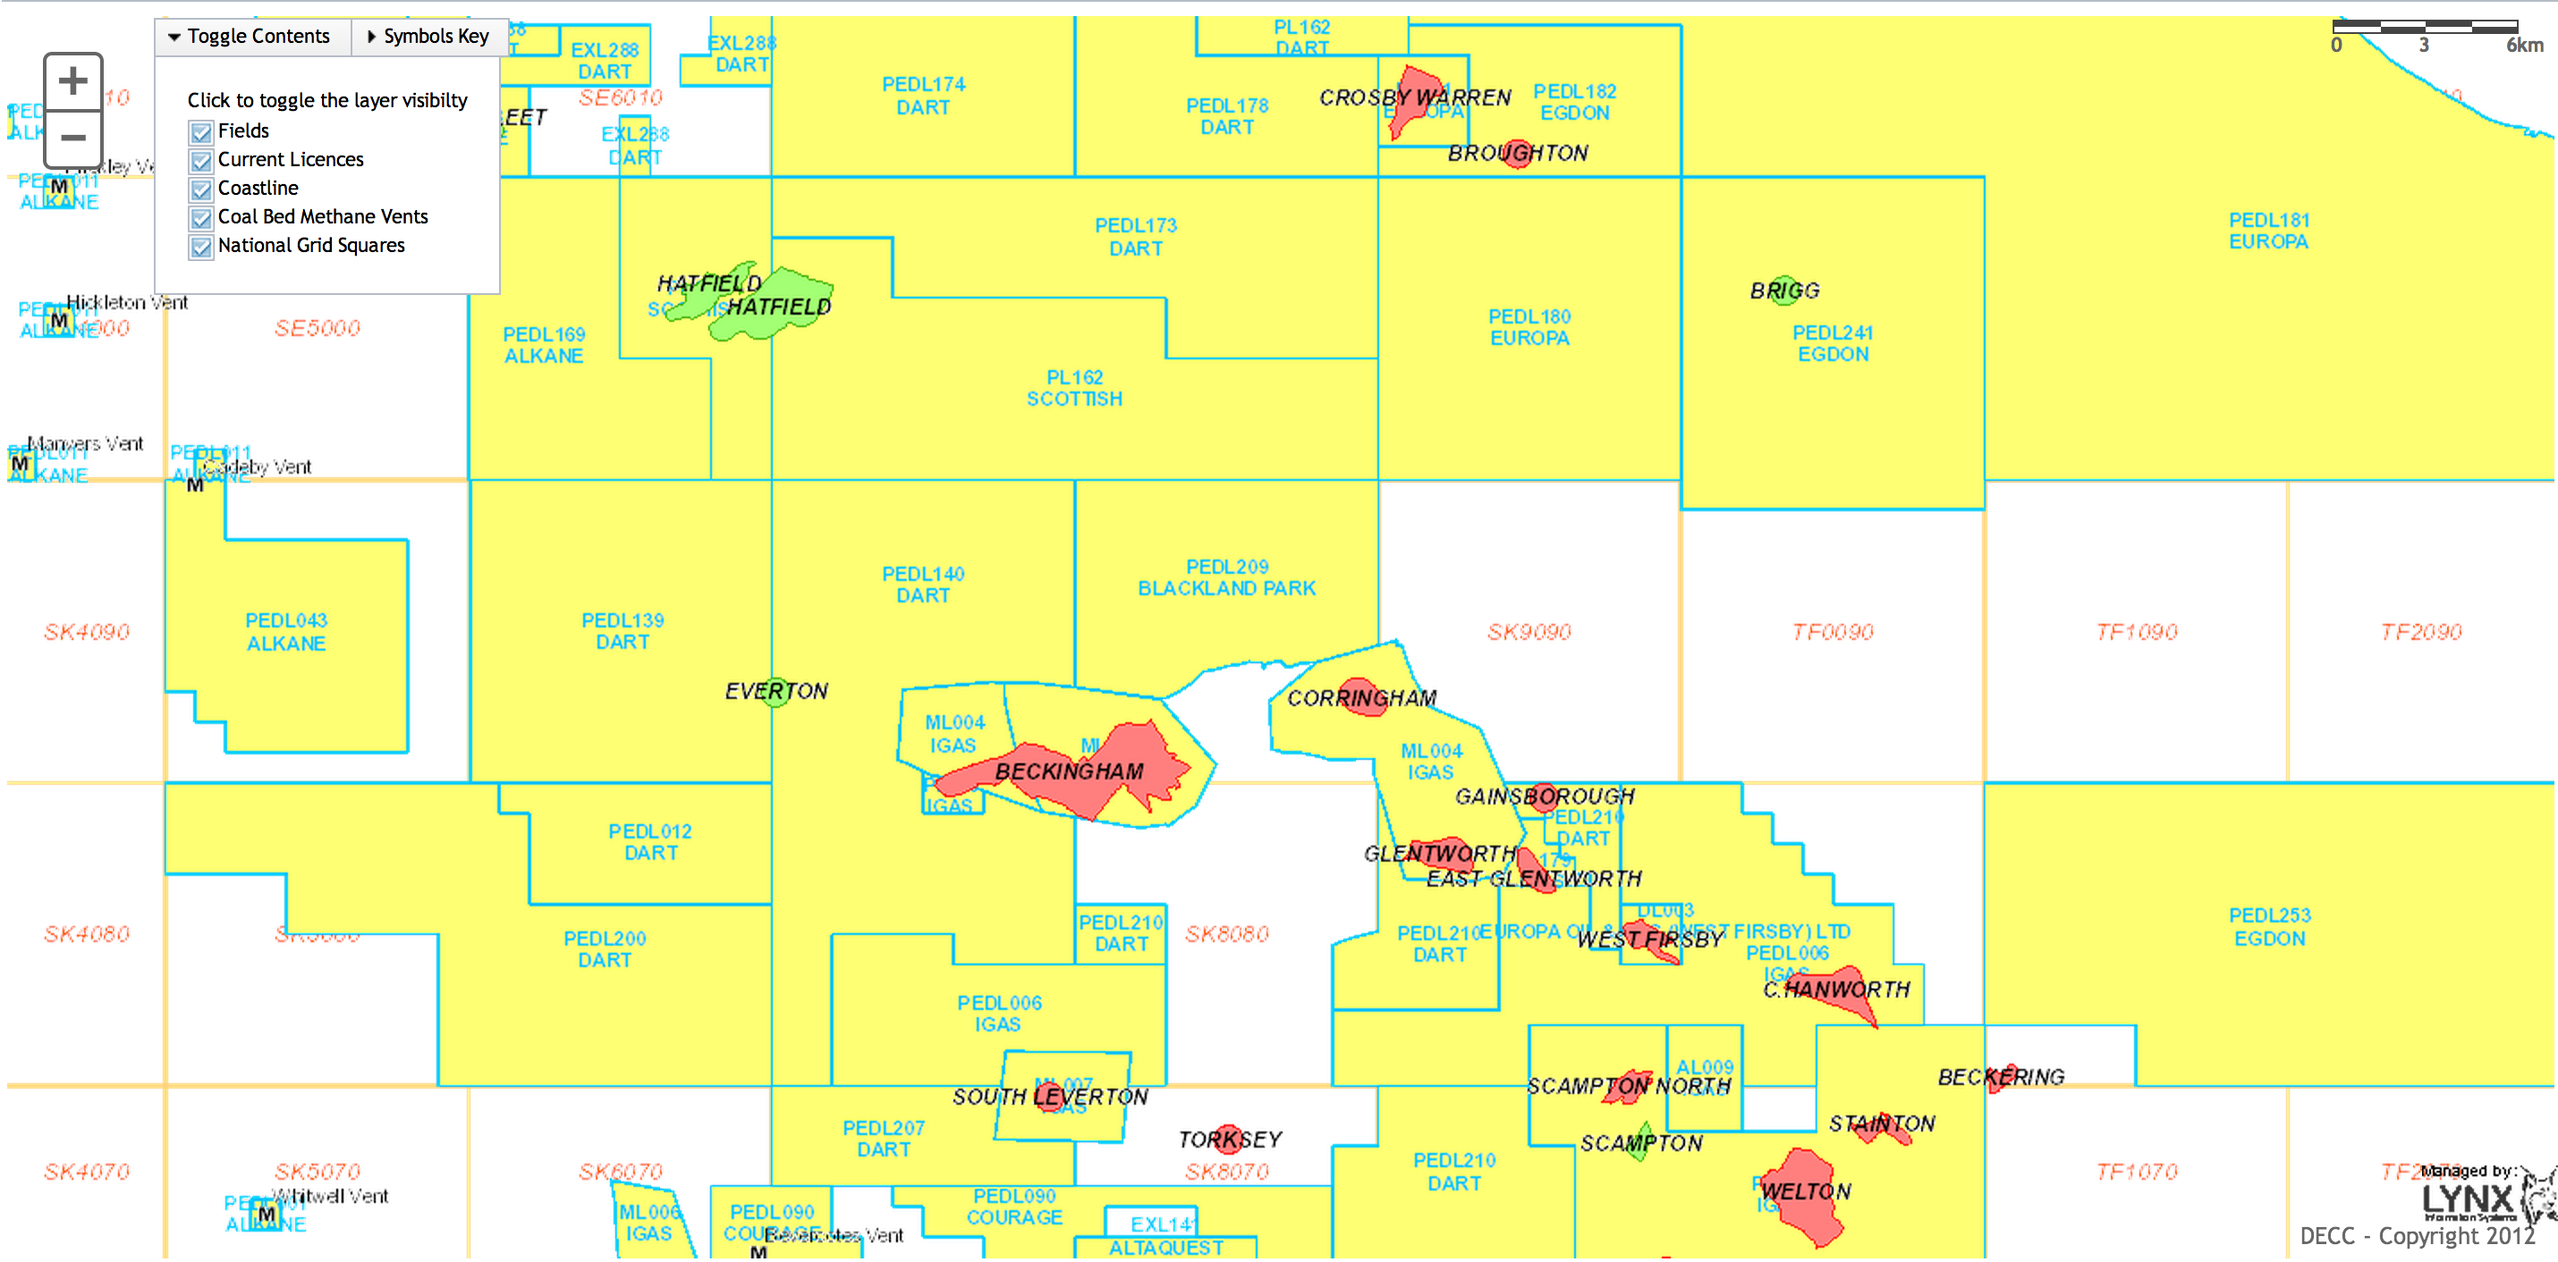
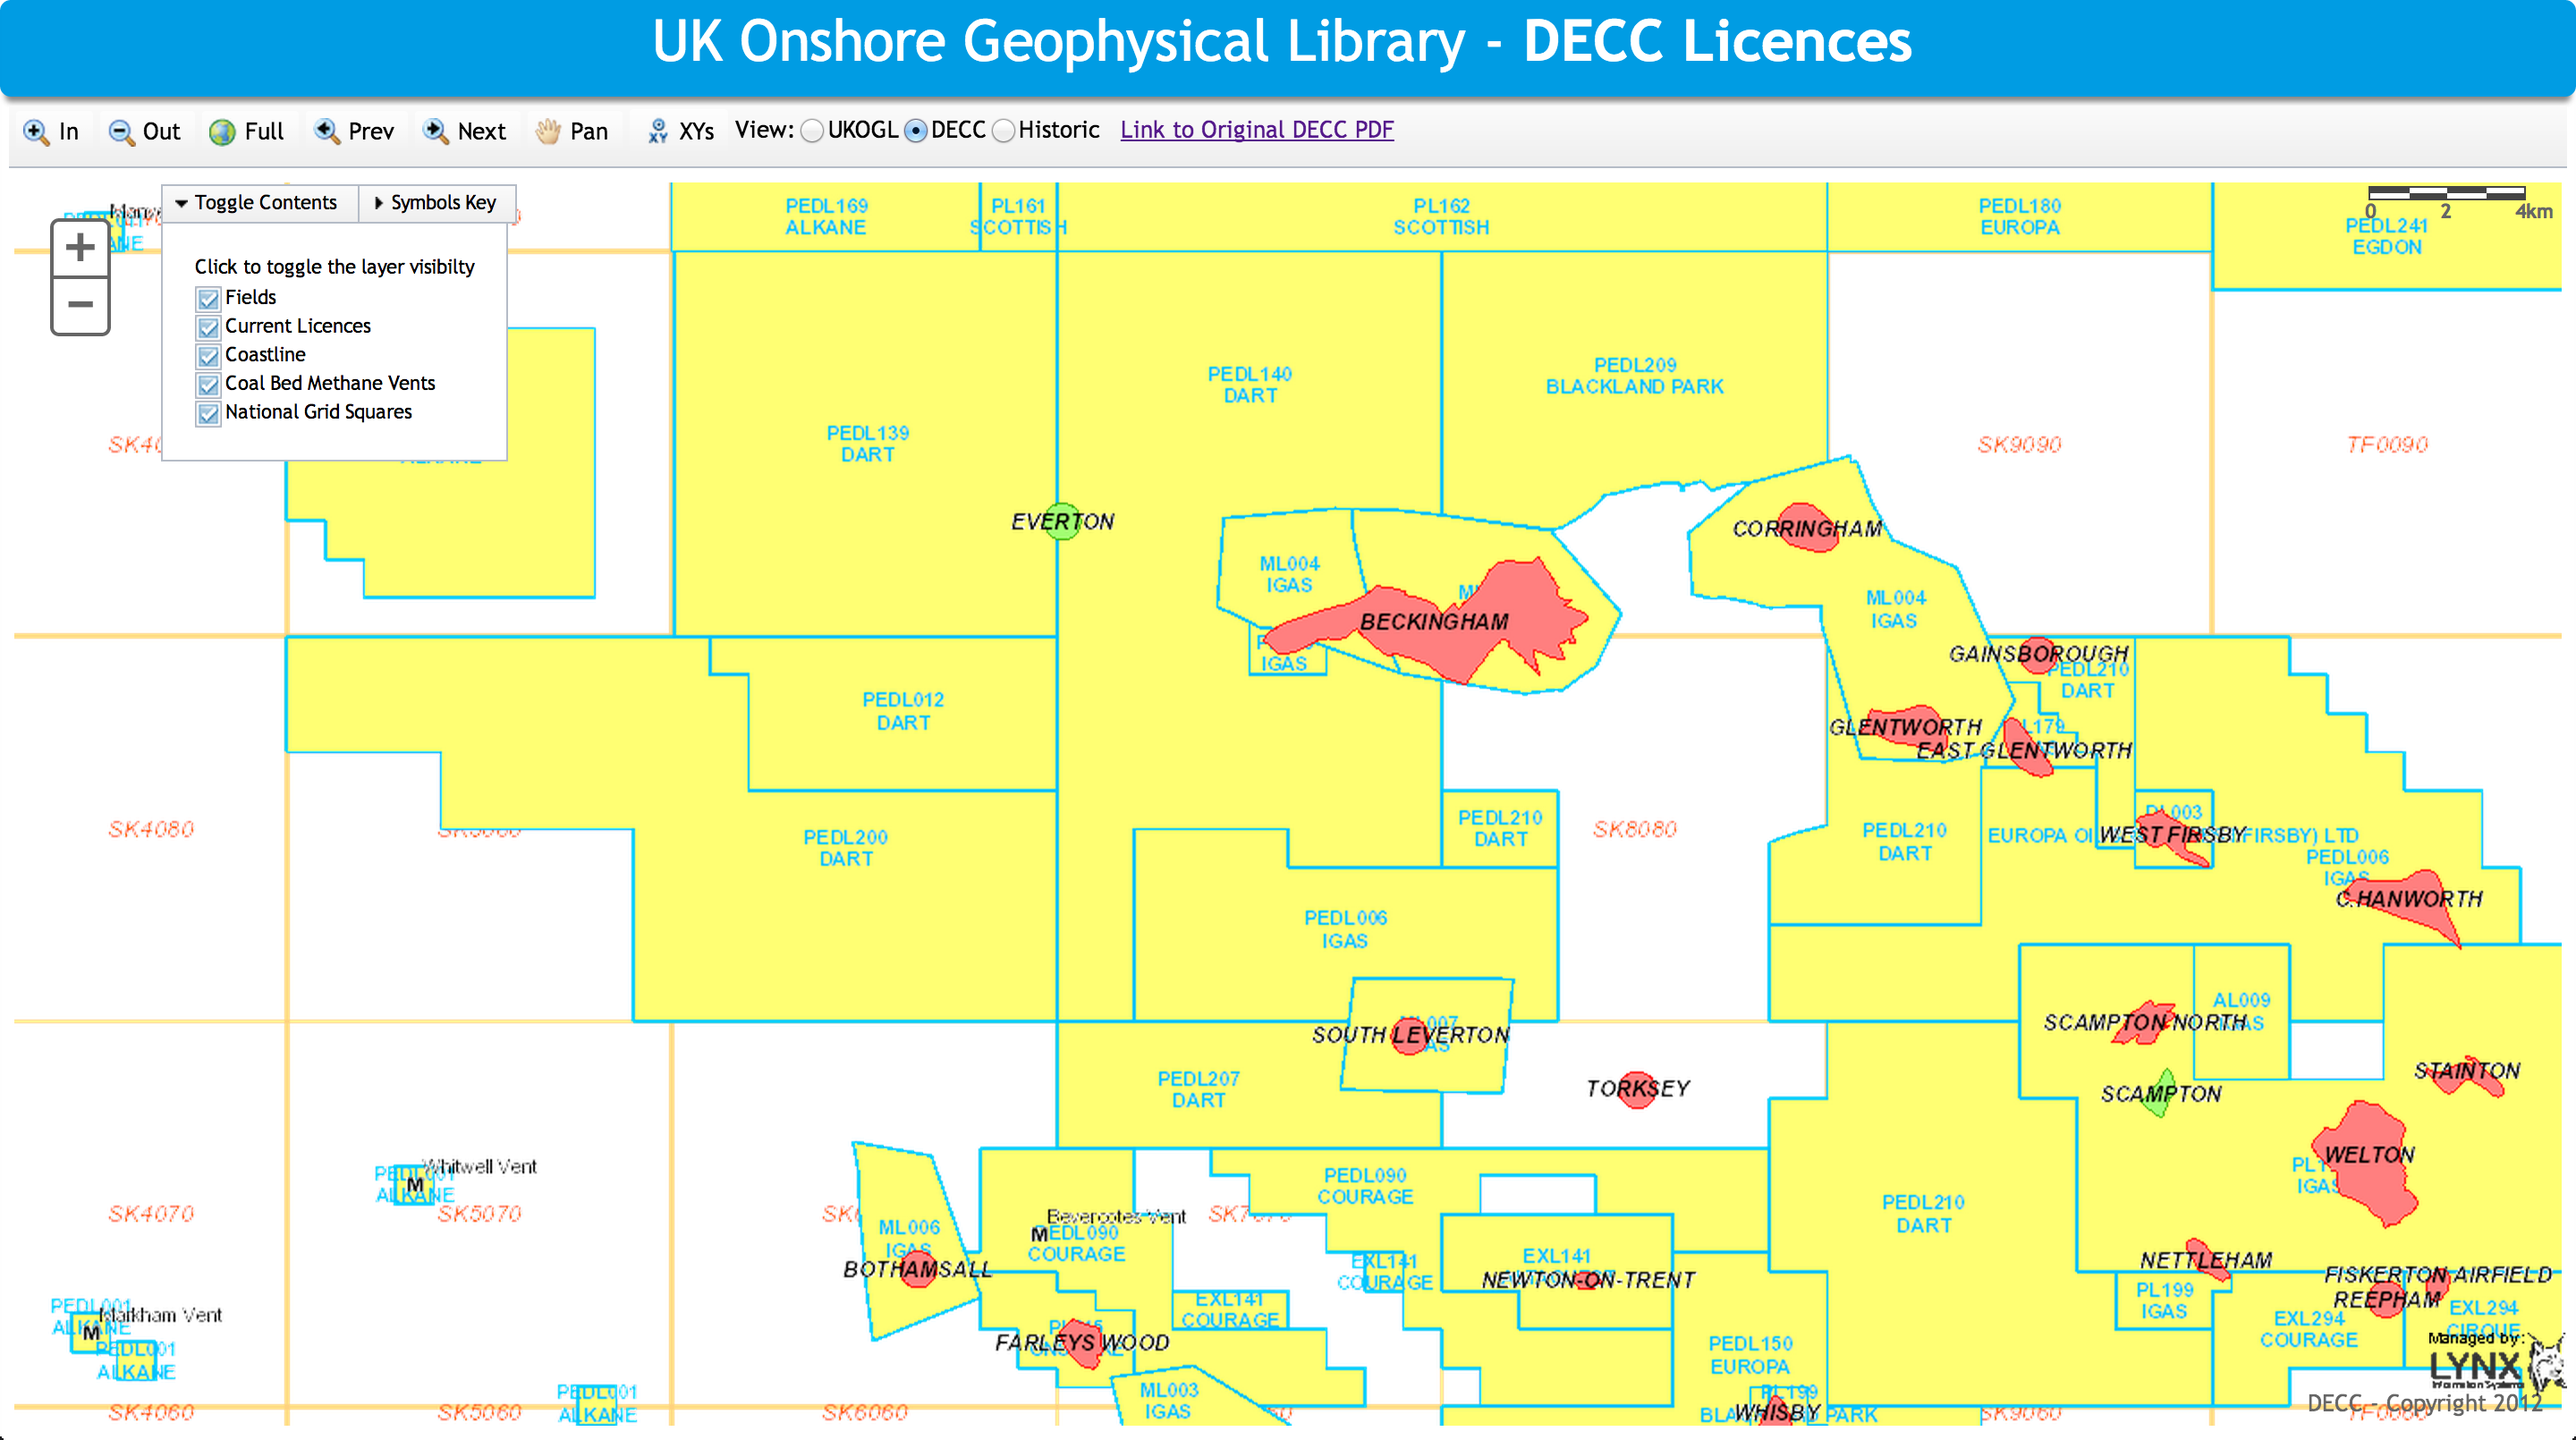
Example of different maps

diff --git a/README.md b/README.md
@@ -23,7 +23,9 @@ I then decided to start a little investigation over the data published by the DE
 
 ![Example of map on the UKOGL website](https://raw.github.com/giacecco/oil-and-gas-licensing-map/master/images/map2.png)
 
-If that wasn't enough, the map is also broken at the moment of writing (28/12/2013, 10:50; the tile server returns server errors).
+What about this map instead?
+
+![Example of my map](https://raw.github.com/giacecco/oil-and-gas-licensing-map/master/images/map3.png)
 
 ## Sources and Data pre-processing
 
